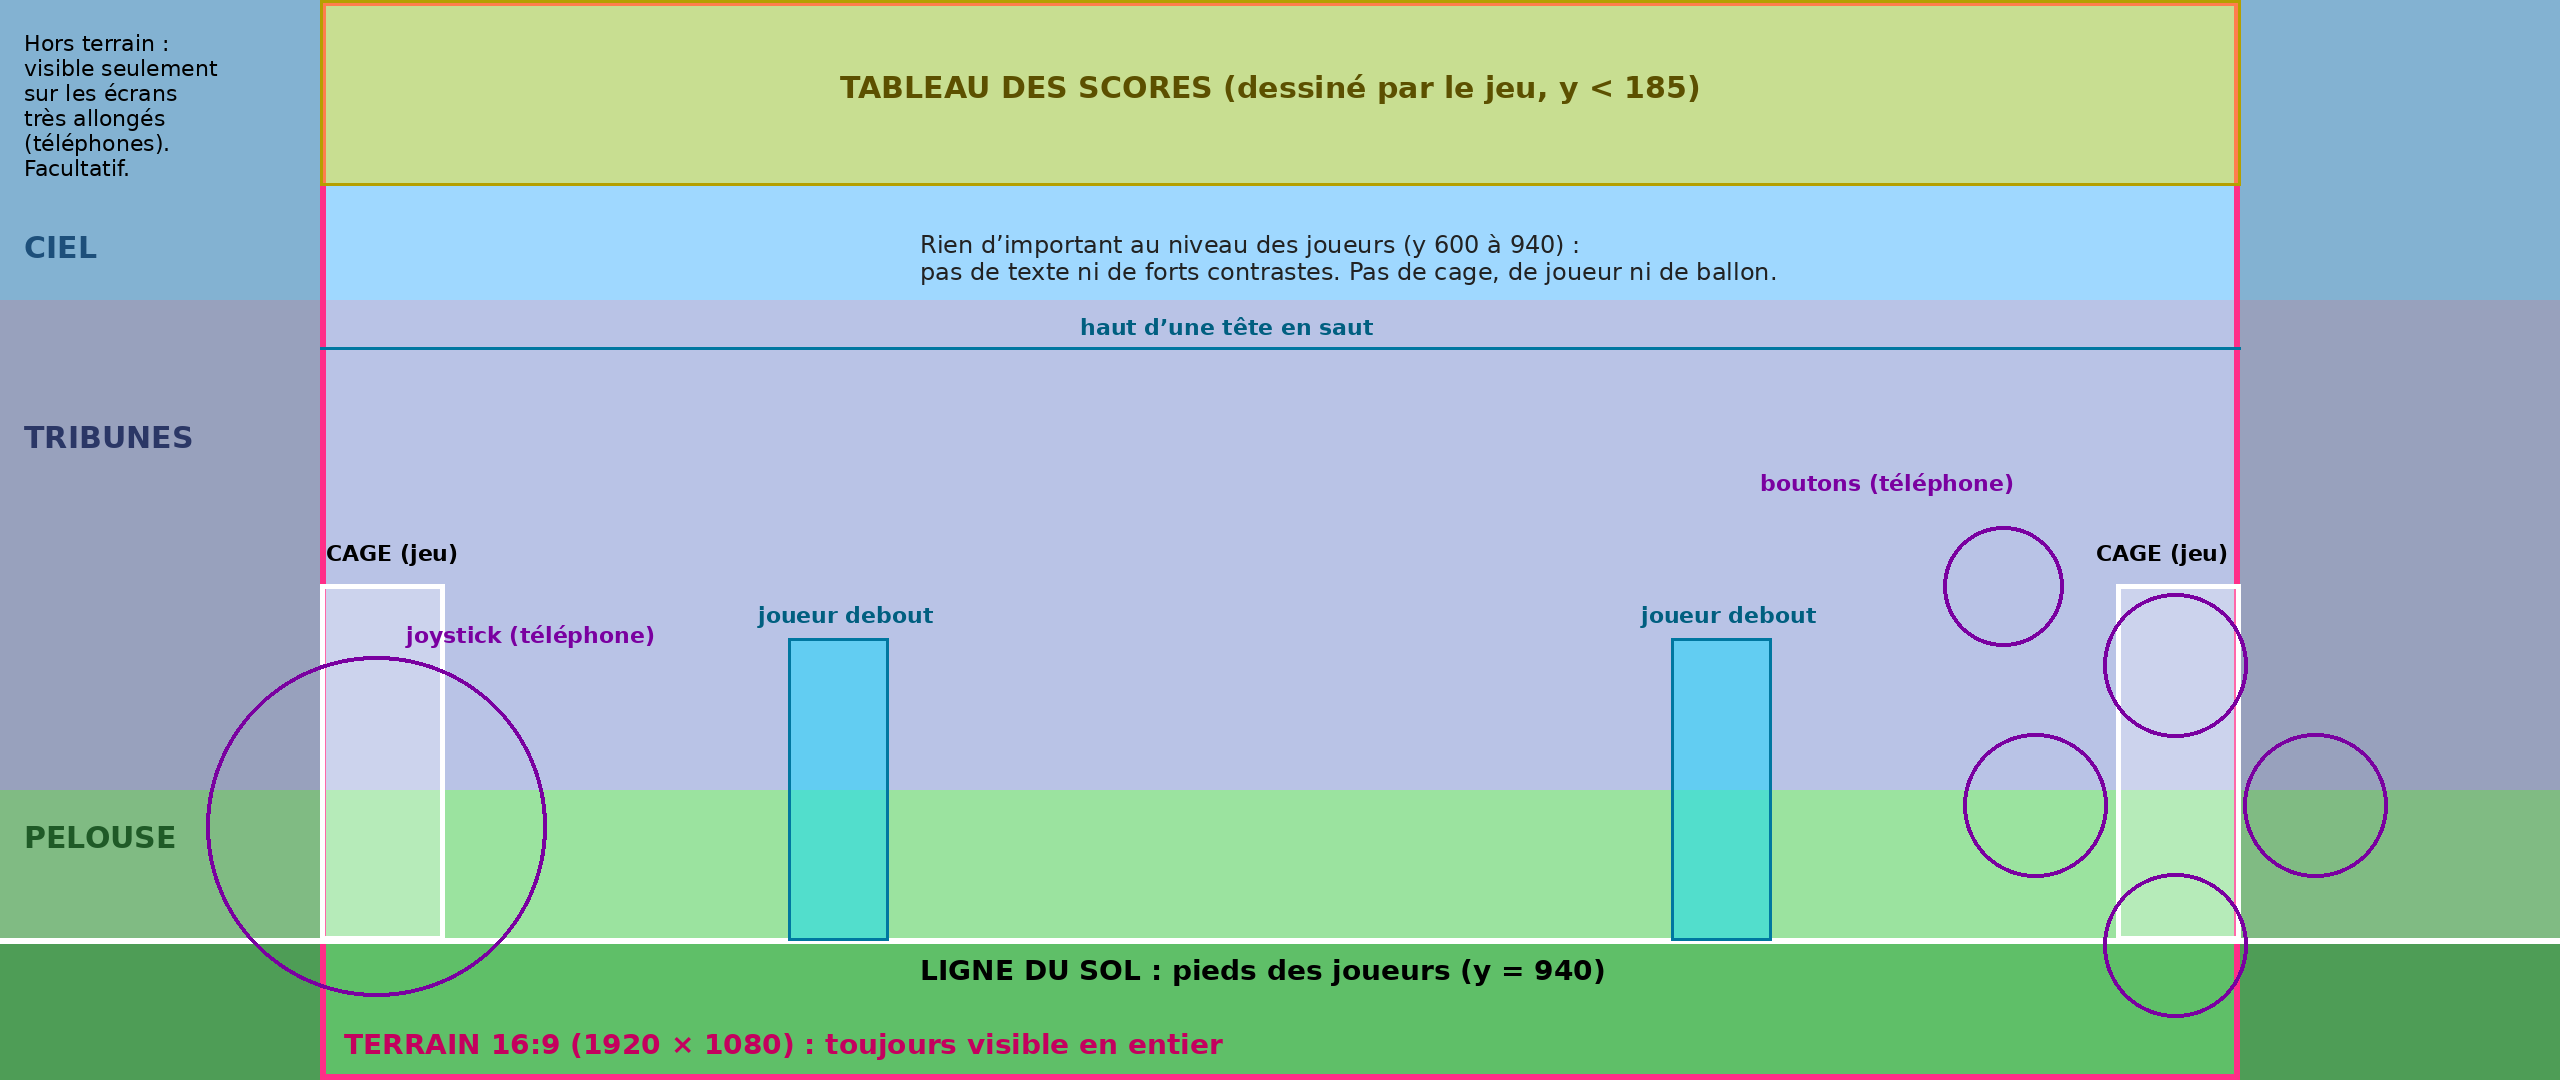
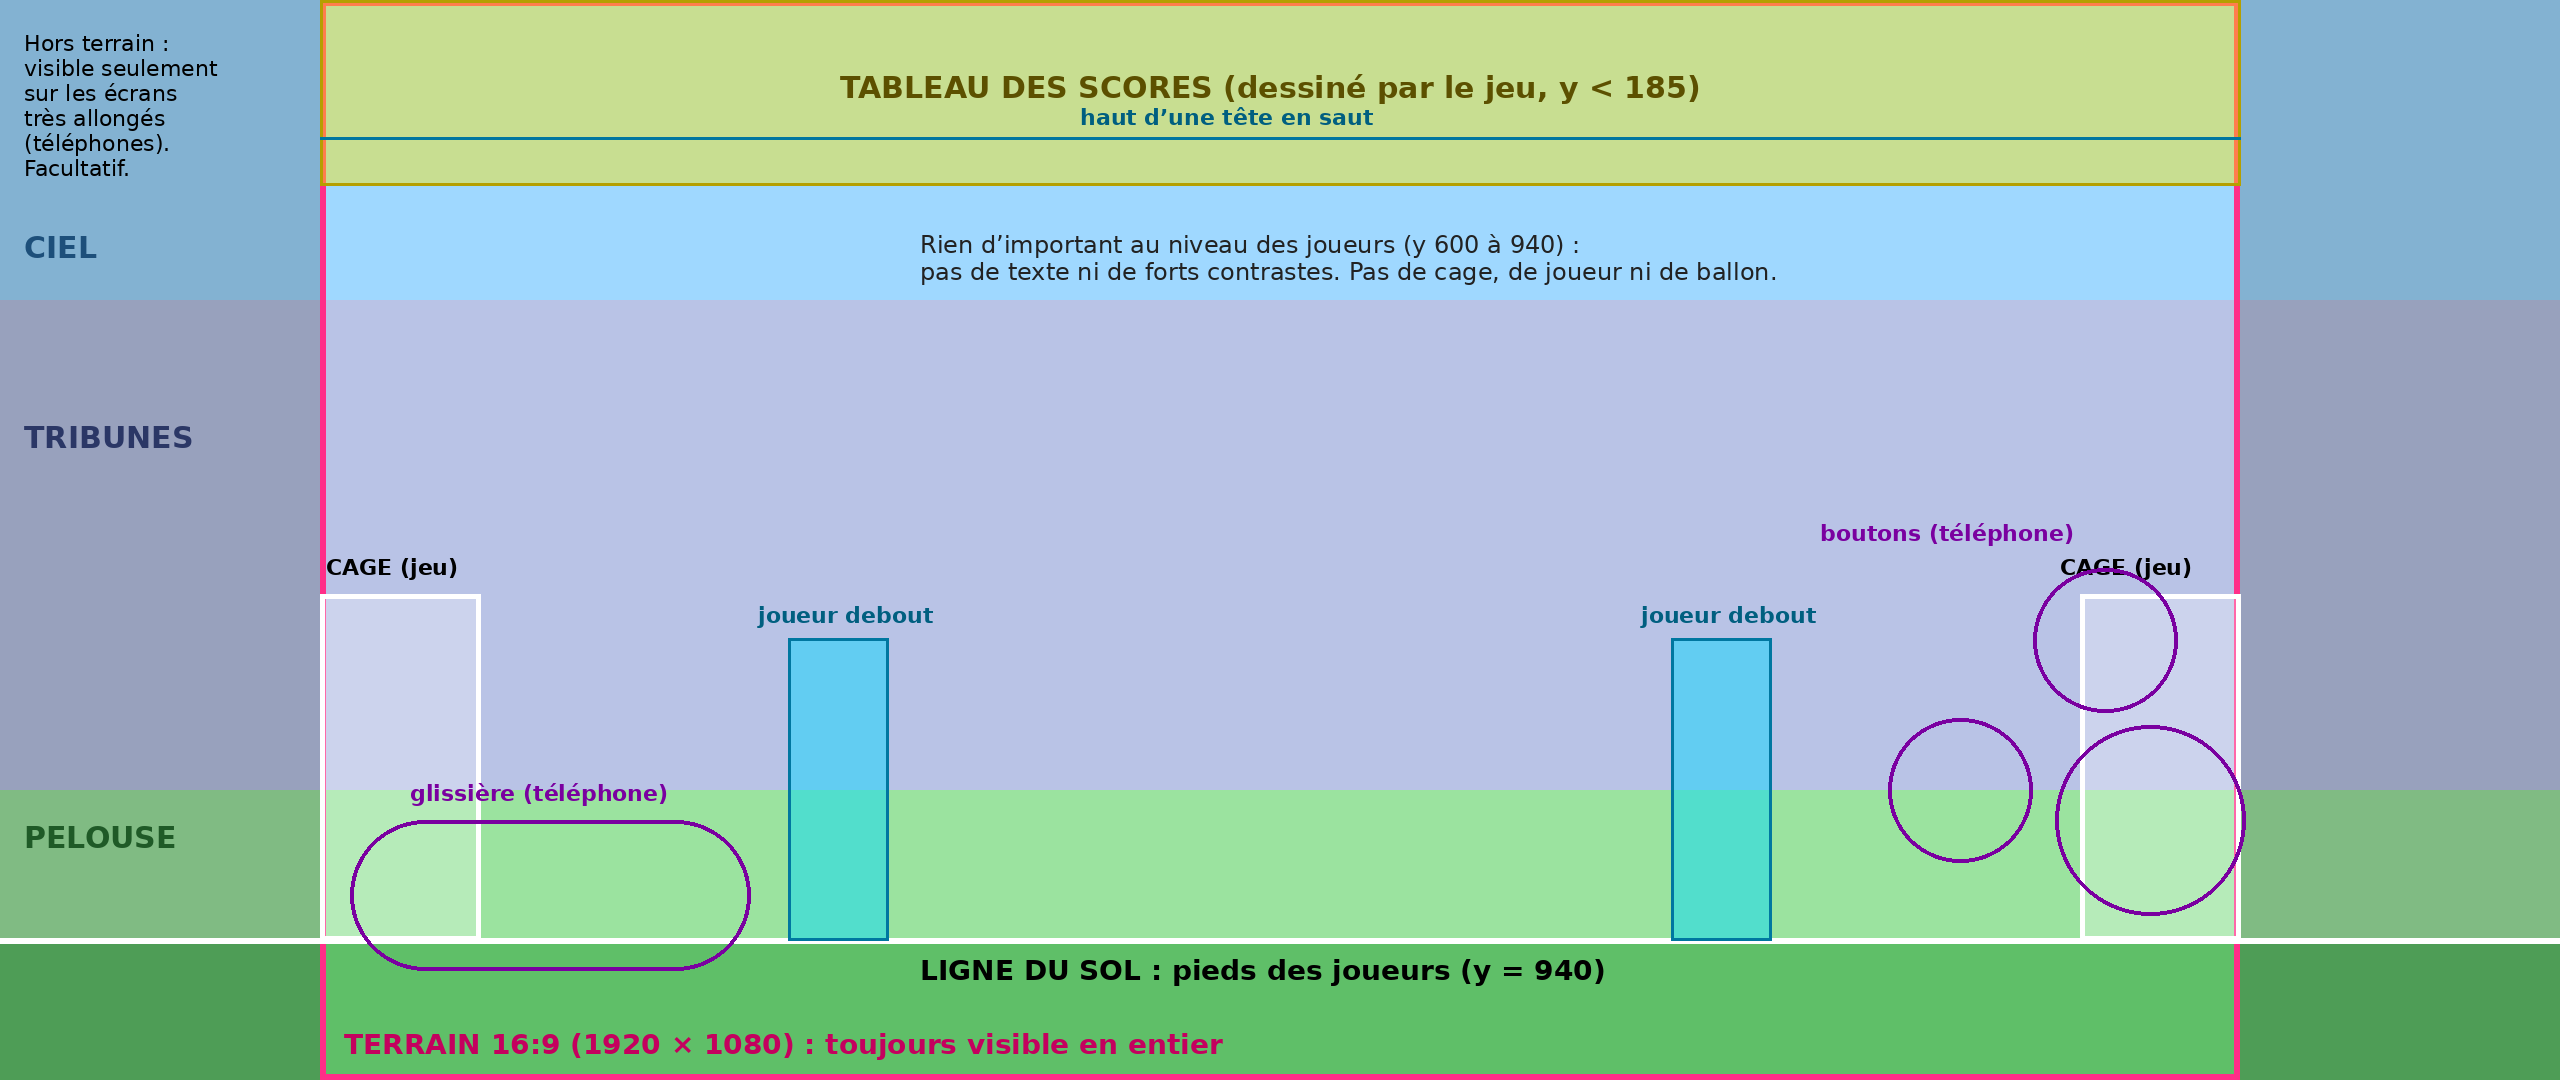
Un but ne compte que si le ballon passe la ligne de but sous la barre ; cages un peu plus hautes
- Un ballon coincé sur la barre contre le bord du terrain pouvait être poussé à travers et compter :
  il est maintenant remis sur la barre (tests qui reproduisent le cas).
- Cages de 165 px de haut au lieu de 152 : environ 5 buts par match entre deux ordinateurs, comme avant
  la correction (mesuré en simulation).
- Gabarit du fond et README aux nouvelles dimensions des cages.

Claude-Session: https://claude.ai/code/session_01HiDYxSZDfKv65iEYefDp2t

diff --git a/tests/match.test.ts b/tests/match.test.ts
@@ -1,12 +1,14 @@
 import { describe, expect, it } from 'vitest';
 import { cpuInput, newBrain, seeded } from '../src/engine/ai';
-import { BALL_R, GOAL_W, GROUND } from '../src/engine/constants';
+import { BALL_R, GOAL_TOP, GOAL_W, GROUND } from '../src/engine/constants';
 import { newMatch } from '../src/engine/match';
 import { NO_INPUT, type Match } from '../src/engine/types';
 import { DT, playing, run } from './harness';
 
 /** Met le ballon dans la cage de gauche. */
-const intoLeftGoal = (m: Match) => Object.assign(m.ball, { x: GOAL_W / 2, y: GROUND - BALL_R, vx: 0, vy: 0 });
+/** Envoie le ballon dans la cage de gauche, par la ligne de but. */
+const intoLeftGoal = (m: Match) =>
+  Object.assign(m.ball, { x: GOAL_W + 10, y: GROUND - BALL_R, vx: -700, vy: 0 });
 
 describe('match', () => {
   it('le ballon reste tenu en l’air jusqu’au coup d’envoi', () => {
@@ -21,8 +23,7 @@ describe('match', () => {
   it('un but dans la cage de gauche compte pour le joueur de droite, puis nouveau coup d’envoi', () => {
     const m = playing(newMatch());
     intoLeftGoal(m);
-    m.ball.vx = -500;
-    const events = run(m, DT * 2);
+    const events = run(m, 0.15);
     expect(m.score).toEqual([0, 1]);
     expect(events).toContainEqual({ type: 'goal', side: 1 });
     run(m, 2);
@@ -84,7 +85,7 @@ describe('rythme du jeu', () => {
 
   it('après un but, le ballon reste dans les filets', () => {
     const m = playing(newMatch());
-    Object.assign(m.ball, { x: GOAL_W / 2, y: GROUND - BALL_R, vx: -900, vy: -300 });
+    Object.assign(m.ball, { x: GOAL_W + 10, y: GROUND - BALL_R, vx: -900, vy: -300 });
     run(m, 2);
     expect(m.phase).toBe('goal');
     expect(m.ball.x).toBeLessThan(GOAL_W);
@@ -100,5 +101,34 @@ describe('rythme du jeu', () => {
       total += m.score[0] + m.score[1];
     }
     expect(total / 3).toBeLessThan(10);
+  });
+});
+
+describe('ligne de but', () => {
+  it('un ballon poussé à travers la barre ne compte pas : il est remis dessus', () => {
+    const m = playing(newMatch());
+    // ballon coincé dans le coin, sur la barre contre le bord du terrain, puis enfoncé dedans
+    Object.assign(m.ball, { x: BALL_R, y: GOAL_TOP + 10, vx: 0, vy: 0 });
+    const events = run(m, 0.5);
+    expect(events.some((e) => e.type === 'goal')).toBe(false);
+    expect(m.score).toEqual([0, 0]);
+    expect(m.ball.y).toBeLessThan(GOAL_TOP);
+  });
+
+  it('un joueur qui bloque le ballon sur la barre contre le bord ne le fait pas entrer', () => {
+    const m = playing(newMatch());
+    const [, p] = m.players;
+    // le joueur de droite est monté sur la barre de gauche et pousse le ballon contre le bord
+    Object.assign(p, { x: BALL_R * 2 + 30, y: GOAL_TOP - 8 });
+    Object.assign(m.ball, { x: BALL_R, y: GOAL_TOP - 8 - BALL_R, vx: 0, vy: 0 });
+    const events = run(m, 2, () => [NO_INPUT, { ...NO_INPUT, left: true, punch: true }]);
+    expect(events.some((e) => e.type === 'goal')).toBe(false);
+  });
+
+  it('un ballon entré par devant, sous la barre, compte', () => {
+    const m = playing(newMatch());
+    intoLeftGoal(m);
+    run(m, 0.2);
+    expect(m.score).toEqual([0, 1]);
   });
 });

diff --git a/src/engine/ball.ts b/src/engine/ball.ts
@@ -20,7 +20,7 @@ export const BARS = [
 ] as const;
 
 export function newBall(x: number, y: number): Ball {
-  return { x, y, vx: 0, vy: 0, spin: 0 };
+  return { x, y, vx: 0, vy: 0, spin: 0, mouth: null };
 }
 
 /** Limite la vitesse du ballon (il reste rattrapable). */
@@ -82,11 +82,38 @@ export function stepBall(b: Ball, dt: number, events: GameEvent[]): void {
   }
 }
 
-/** Le ballon est entièrement entré dans une cage, sous la barre : 0 = cage de gauche, 1 = de droite. */
+/**
+ * Suit le passage de la ligne de but : le ballon ne compte que s'il est entré dans la cage par devant,
+ * sous la barre. S'il s'y retrouve autrement (poussé à travers la barre, coincé contre le bord du
+ * terrain), il est remis sur la barre. `prevX` : position du ballon avant cette image.
+ */
+export function trackMouth(b: Ball, prevX: number): void {
+  const left = b.x < GOAL_W;
+  const right = b.x > W - GOAL_W;
+  if (!left && !right) {
+    b.mouth = null;
+    return;
+  }
+  const side = left ? 0 : 1;
+  const line = left ? GOAL_W : W - GOAL_W;
+  const crossed = left ? prevX >= line : prevX <= line;
+  if (b.mouth === side) return;
+  if (crossed && b.y > GOAL_TOP) {
+    b.mouth = side;
+    return;
+  }
+  // dans la zone de la cage sans être passé sous la barre : il est au-dessus (normal) ou il a traversé
+  if (b.y + BALL_R > GOAL_TOP - BAR_H) {
+    b.y = GOAL_TOP - BAR_H - BALL_R;
+    b.vy = -Math.abs(b.vy) * BALL_BOUNCE;
+  }
+}
+
+/** Le ballon est entièrement entré dans une cage par devant, sous la barre : 0 = gauche, 1 = droite. */
 export function goalLine(b: Ball): 0 | 1 | null {
   if (b.y - BALL_R * 0.5 < GOAL_TOP) return null;
-  if (b.x + BALL_R < GOAL_W) return 0;
-  if (b.x - BALL_R > W - GOAL_W) return 1;
+  if (b.mouth === 0 && b.x + BALL_R < GOAL_W) return 0;
+  if (b.mouth === 1 && b.x - BALL_R > W - GOAL_W) return 1;
   return null;
 }
 

diff --git a/tests/ball.test.ts b/tests/ball.test.ts
@@ -25,10 +25,12 @@ describe('ballon', () => {
     expect(goalLine(ball)).toBeNull();
   });
 
-  it('but quand le ballon est entièrement entré sous la barre', () => {
-    expect(goalLine({ ...newBall(GOAL_W - BALL_R - 1, GROUND - BALL_R) })).toBe(0);
-    expect(goalLine({ ...newBall(W - GOAL_W + BALL_R + 1, GROUND - BALL_R) })).toBe(1);
-    expect(goalLine({ ...newBall(GOAL_W, GROUND - BALL_R) })).toBeNull();
+  it('but quand le ballon est entièrement entré sous la barre, par la ligne de but', () => {
+    expect(goalLine({ ...newBall(GOAL_W - BALL_R - 1, GROUND - BALL_R), mouth: 0 })).toBe(0);
+    expect(goalLine({ ...newBall(W - GOAL_W + BALL_R + 1, GROUND - BALL_R), mouth: 1 })).toBe(1);
+    expect(goalLine({ ...newBall(GOAL_W, GROUND - BALL_R), mouth: 0 })).toBeNull();
+    // dans la cage sans être passé par la ligne de but : pas de but
+    expect(goalLine(newBall(GOAL_W - BALL_R - 1, GROUND - BALL_R))).toBeNull();
   });
 
   it('rebondit sur les murs', () => {

diff --git a/src/engine/match.ts b/src/engine/match.ts
@@ -1,5 +1,5 @@
 /* Le match : coup d'envoi, jeu, buts, temps, but en or, fin. */
-import { catchInNet, goalLine, newBall, stepBall } from './ball';
+import { catchInNet, goalLine, newBall, stepBall, trackMouth } from './ball';
 import { GOAL_PAUSE, KICKOFF_PAUSE, MATCH_TIME, W } from './constants';
 import { ballOnPlayer } from './contact';
 import { movePlayer, newPlayer, separatePlayers, steer } from './player';
@@ -56,9 +56,11 @@ function simulate(m: Match, inputs: readonly [Input, Input], dt: number, frozen:
   if (frozen) return;
   stepStrike(a, b, m.ball, dt, m.events);
   stepStrike(b, a, m.ball, dt, m.events);
+  const prevX = m.ball.x;
   stepBall(m.ball, dt, m.events);
   ballOnPlayer(m.ball, a, m.events);
   ballOnPlayer(m.ball, b, m.events);
+  trackMouth(m.ball, prevX);
 }
 
 /** Avance le match de `dt` secondes (pas fixe conseillé : 1/120). */

diff --git a/src/engine/types.ts b/src/engine/types.ts
@@ -60,6 +60,8 @@ export interface Ball {
   vy: number;
   /** Rotation affichée (radians). */
   spin: number;
+  /** Cage dont le ballon a franchi la ligne de but, sous la barre (null : il n'est entré dans aucune). */
+  mouth: 0 | 1 | null;
 }
 
 export type Phase = 'kickoff' | 'play' | 'goal' | 'end';

diff --git a/src/engine/constants.ts b/src/engine/constants.ts
@@ -9,7 +9,7 @@ export const GROUND = 470;
 /** Profondeur d'une cage (depuis le bord de l'écran). */
 export const GOAL_W = 80;
 /** Dessous de la barre transversale. */
-export const GOAL_TOP = 318;
+export const GOAL_TOP = 305;
 /** Épaisseur de la barre. */
 export const BAR_H = 8;
 

diff --git a/README.md b/README.md
@@ -63,7 +63,7 @@ image, le jeu dessine son propre stade. Le gabarit `docs/gabarit-fond.png` montr
   (téléphones). Une image 1920 × 1080 marche aussi : ses bords sont alors étirés sur ces écrans.
 - **Ligne du sol à y = 940** (87 % de la hauteur) : les pieds des joueurs s'y posent. La pelouse continue
   en dessous.
-- Le jeu dessine **par-dessus** : les cages (à 124 px de chaque bord du terrain, barre à y = 584), les
+- Le jeu dessine **par-dessus** : les cages (160 px de profondeur depuis chaque bord du terrain, barre à y = 594), les
   joueurs, le ballon, le tableau des scores (en haut, y < 185) et, sur téléphone, le joystick et les boutons.
   L'image ne doit donc contenir ni cage, ni joueur, ni ballon.
 - Au niveau des joueurs (y 600 à 940), éviter le texte et les forts contrastes : ils doivent bien ressortir.
